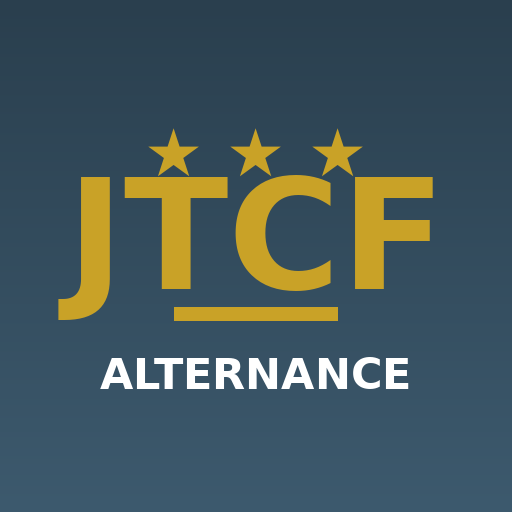
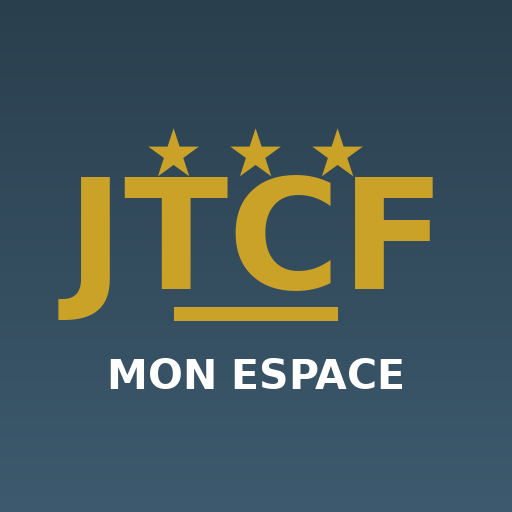
Add files via upload

Changed region(s): [[0.1875, 0.6875, 0.8125, 0.7812]]

diff --git a/index.html b/index.html
@@ -3,11 +3,11 @@
 <head>
 <meta charset="UTF-8">
 <meta name="viewport" content="width=device-width, initial-scale=1.0, user-scalable=no">
-<title>JTCF Alternance – Connexion</title>
+<title>JTCF — Mon Espace</title>
 
 <!-- Application installable -->
 <meta name="theme-color" content="#2a3f4e">
-<meta name="description" content="Émargement et livrets d'accueil — JT Conseil Formation, Saint-Joseph">
+<meta name="description" content="Émargement, livrets et documents — alternance et formation continue. JT Conseil Formation, Saint-Joseph">
 <link rel="manifest" href="manifest.json">
 <link rel="icon" type="image/png" sizes="192x192" href="icone-192.png">
 <link rel="apple-touch-icon" href="apple-touch-icon.png">
@@ -43,10 +43,10 @@
 <div class="login-box">
   <div class="stars">★ ★ ★</div>
   <div class="logo">JT Conseil Formation</div>
-  <div class="logo-sub">Saint-Joseph · Alternance</div>
+  <div class="logo-sub">Saint-Joseph · Mon Espace</div>
   <div class="divider"></div>
   <div class="title">Accès Mon Espace</div>
-  <div class="subtitle">Alternant ou Formatrice — même page de connexion</div>
+  <div class="subtitle">Alternance et formation continue — même page de connexion</div>
   <div class="field">
     <label>Votre identifiant</label>
     <input type="text" id="identifiant" placeholder="Ex : AB01, FORM01..." maxlength="10" />
